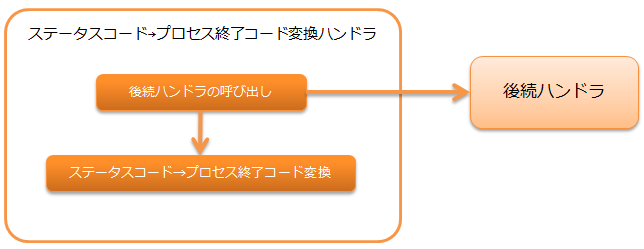
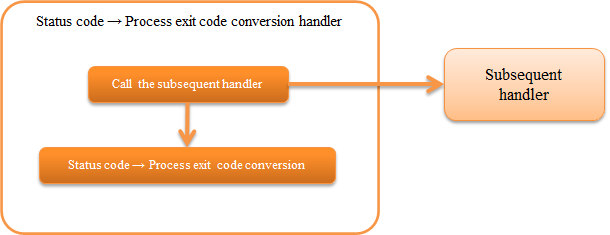
ステータスコード→プロセス終了コード変換ハンドラのページを英語化

diff --git a/en/application_framework/application_framework/handlers/standalone/status_code_convert_handler.rst b/en/application_framework/application_framework/handlers/standalone/status_code_convert_handler.rst
@@ -1,23 +1,23 @@
 .. _status_code_convert_handler:
 
-ステータスコード→プロセス終了コード変換ハンドラ
-==================================================
+Status Code → Process End Code Conversion Handler
+====================================================
 
-.. contents:: 目次
+.. contents:: Table of contents
   :depth: 3
   :local:
 
-後続ハンドラによる処理結果のステータスコードをプロセスの終了コードに変換するハンドラ。
+This handler converts the status code of the process result by the subsequent handler to the end code of the process.
 
-処理の流れは以下のとおり。
+The process flow is as follows.
 
 .. image:: ../images/StatusCodeConvertHandler/StatusCodeConvertHandler_flow.png
 
-ハンドラクラス名
+Handler class name
 --------------------------------------------------
 * :java:extdoc:`nablarch.fw.handler.StatusCodeConvertHandler`
 
-モジュール一覧
+Module list
 --------------------------------------------------
 .. code-block:: xml
 
@@ -26,37 +26,34 @@
     <artifactId>nablarch-fw-standalone</artifactId>
   </dependency>
 
-制約
+Constraints
 --------------------------------------------------
-:ref:`main` の直後に設定すること
-  本ハンドラが処理結果のステータスコードをプロセスの終了コードに変換するため。
+Configure immediately after :ref:`main` 
+  This handler converts the status code of the process result to the end code of the process.
 
 .. _status_code_convert_handler-rules:
 
-ステータスコード→プロセス終了コード変換
+Status code → Process end code conversion
 --------------------------------------------------------------
-ステータスコード→プロセス終了コード変換は、以下のルールで行う。
+Conversion of status code to process end code is performed according to the following rules.
 
 .. important::
- アプリケーションのエラー処理でステータスコードを指定する場合は、
- 100～199を使用する。
+ Use 100 to 199 when specifying the status code in the error process of the application.
 
-============================ ============================
-ステータスコード             プロセス終了コード
-============================ ============================
--1以下                       1
-0～199                       0～199(変換は行わない)
-200～399                     0
-400                          10
-401                          11
-403                          12
-404                          13
-409                          14
-上記以外の400～499           15
-500以上                      20
-============================ ============================
+============================== ============================
+Status code                    Process end code
+============================== ============================
+-1 or less                     1
+0 ~ 199                        0 ~ 199 (not converted)
+200 ~ 399                      0
+400                            10
+401                            11
+403                            12
+404                            13
+409                            14
+400 ~ 499 excluding the above  15
+Above 500                      20
+============================== ============================
 
 .. tip::
- このハンドラは、設定などで変換ルールを切り替えることはできない。
- このため、この変換ルールで要件を満たすことができない場合は、
- プロジェクト固有の変換用ハンドラを作成し対応すること。
+ The conversion rule cannot be changed by configuration for this handler. For this reason, a project-specific conversion handler has to be created if the requirements cannot be satisfied by this conversion rule.
